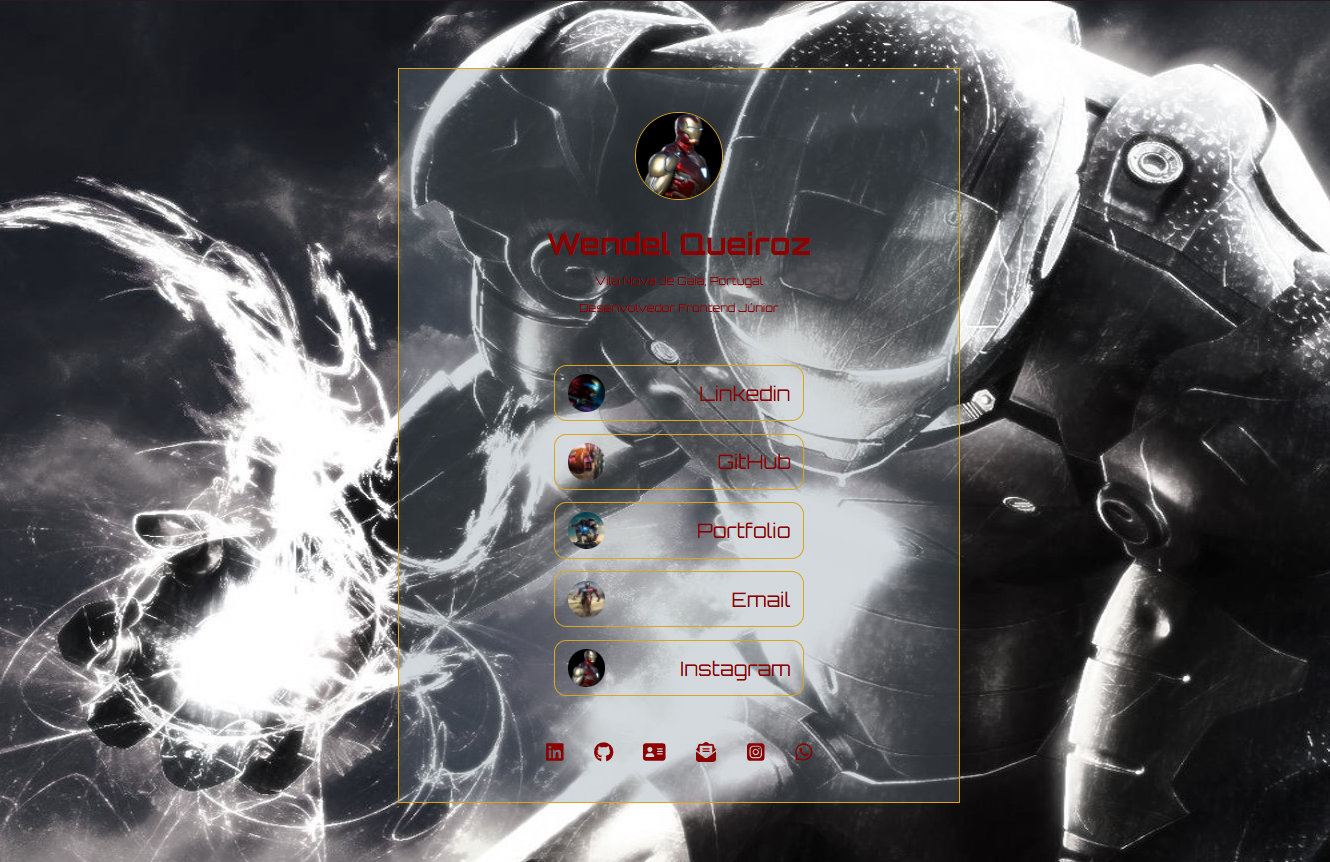
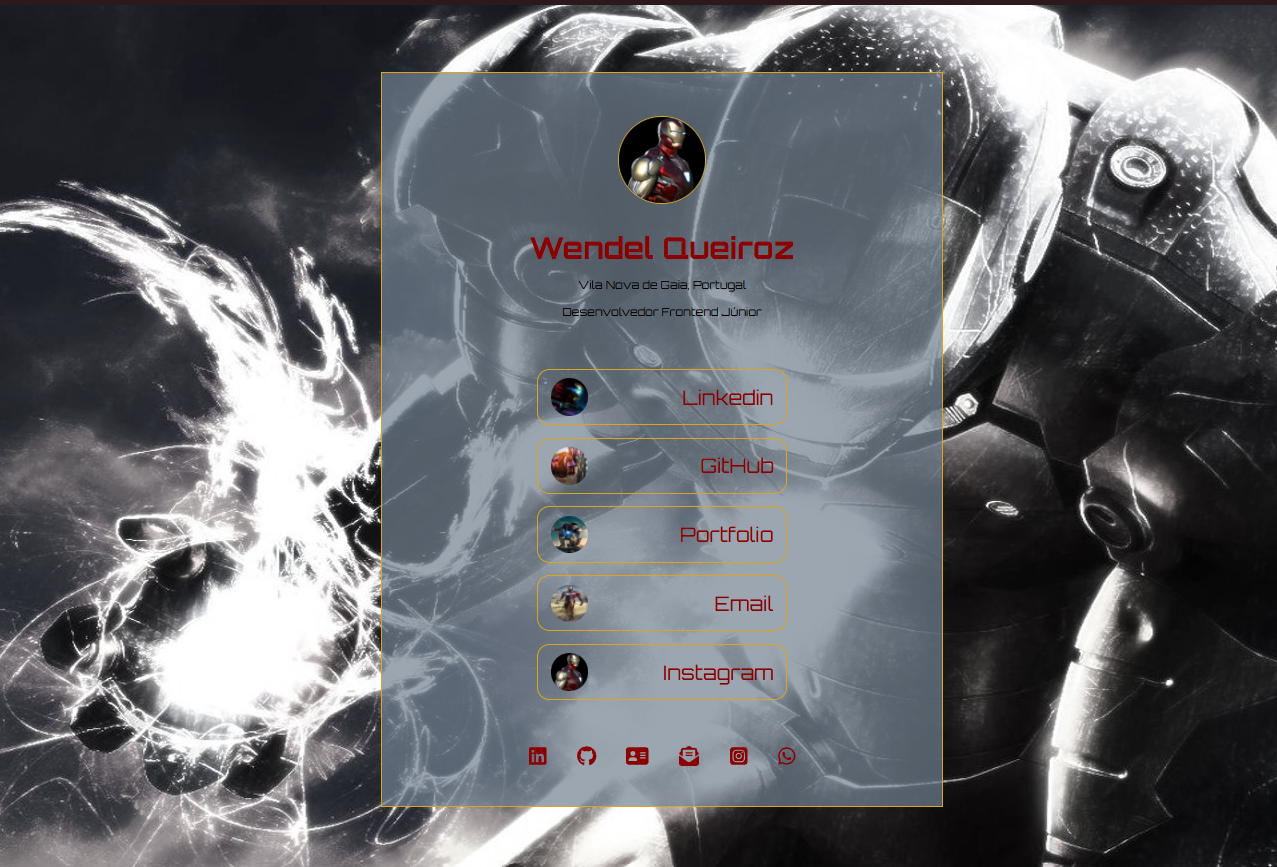
alterado opacidade do container

diff --git a/src/css/style.css b/src/css/style.css
@@ -17,7 +17,7 @@ main {
 .container {
     width: 450px;
     border: 1px solid #DAA520;
-    background-color: rgba(112, 128, 144, 0.3);
+    background-color: rgba(112, 128, 144, 0.7);
 }
 
 .profile {
@@ -46,7 +46,7 @@ main {
     margin-top: 10px;
     font-size: 9px;
     font-weight: 400;
-    color: #8B0000;
+    color: black;
 }
 
 .links{

diff --git a/README.md b/README.md
@@ -73,6 +73,7 @@ figure:hover{
     box-shadow: 0 5px 15px #8B0000;
     transition: 0.3s ease-in-out;
 }
+```
 
 Agradecimentos
 
